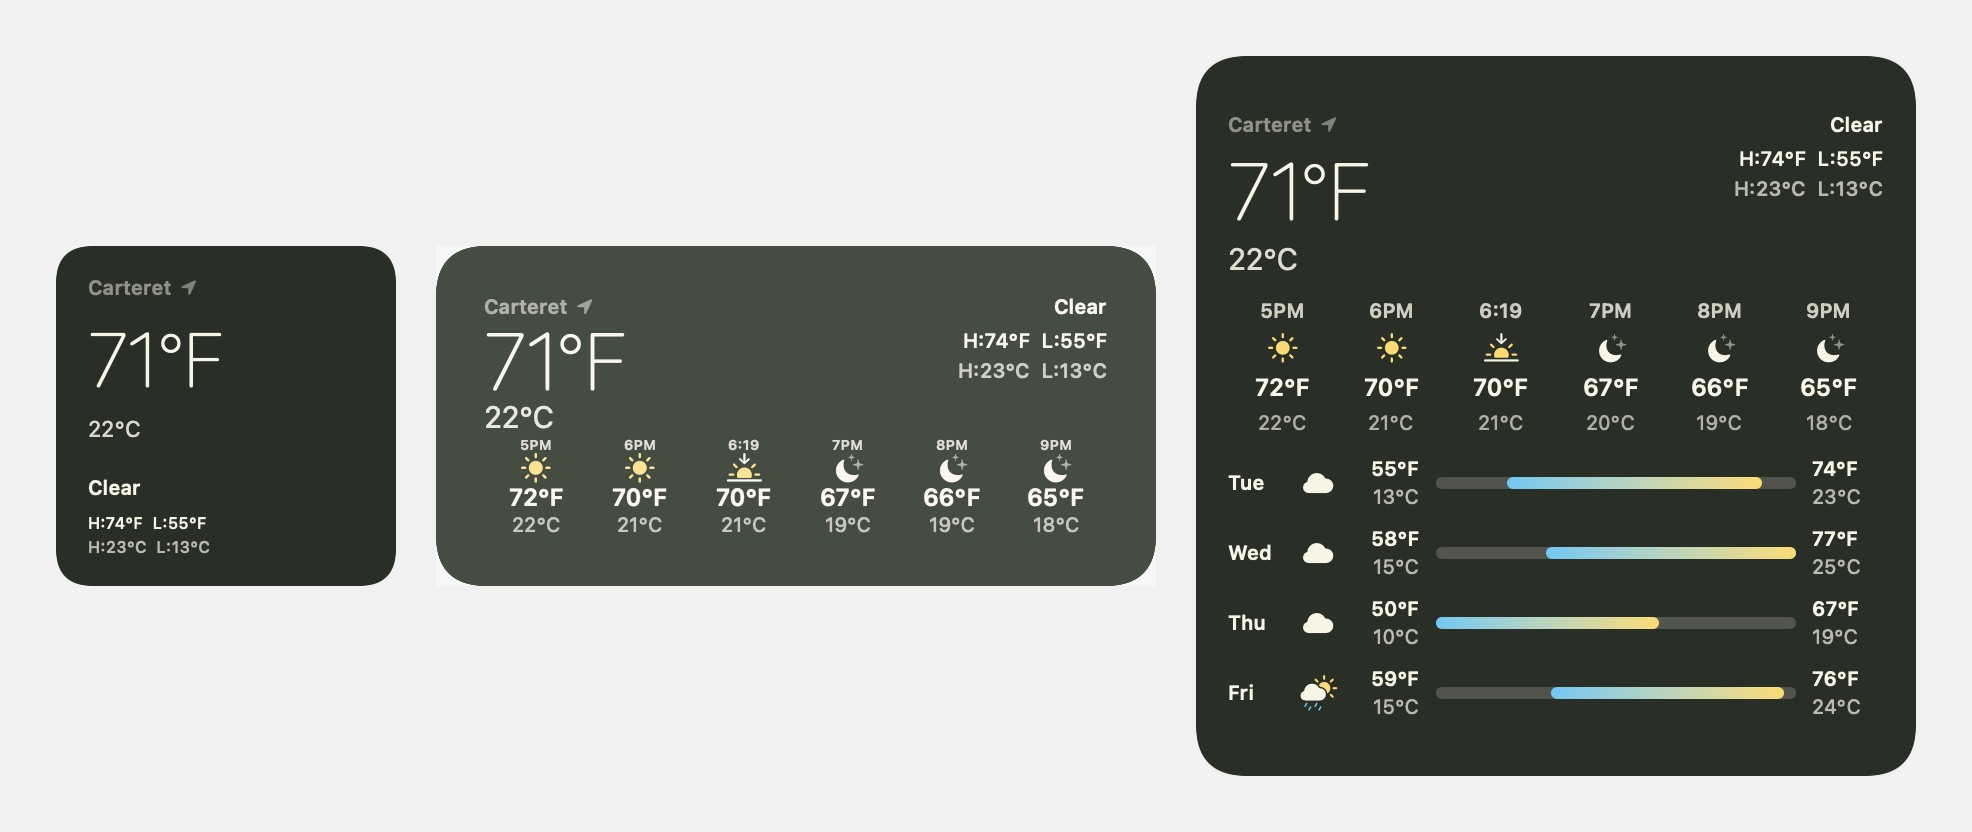
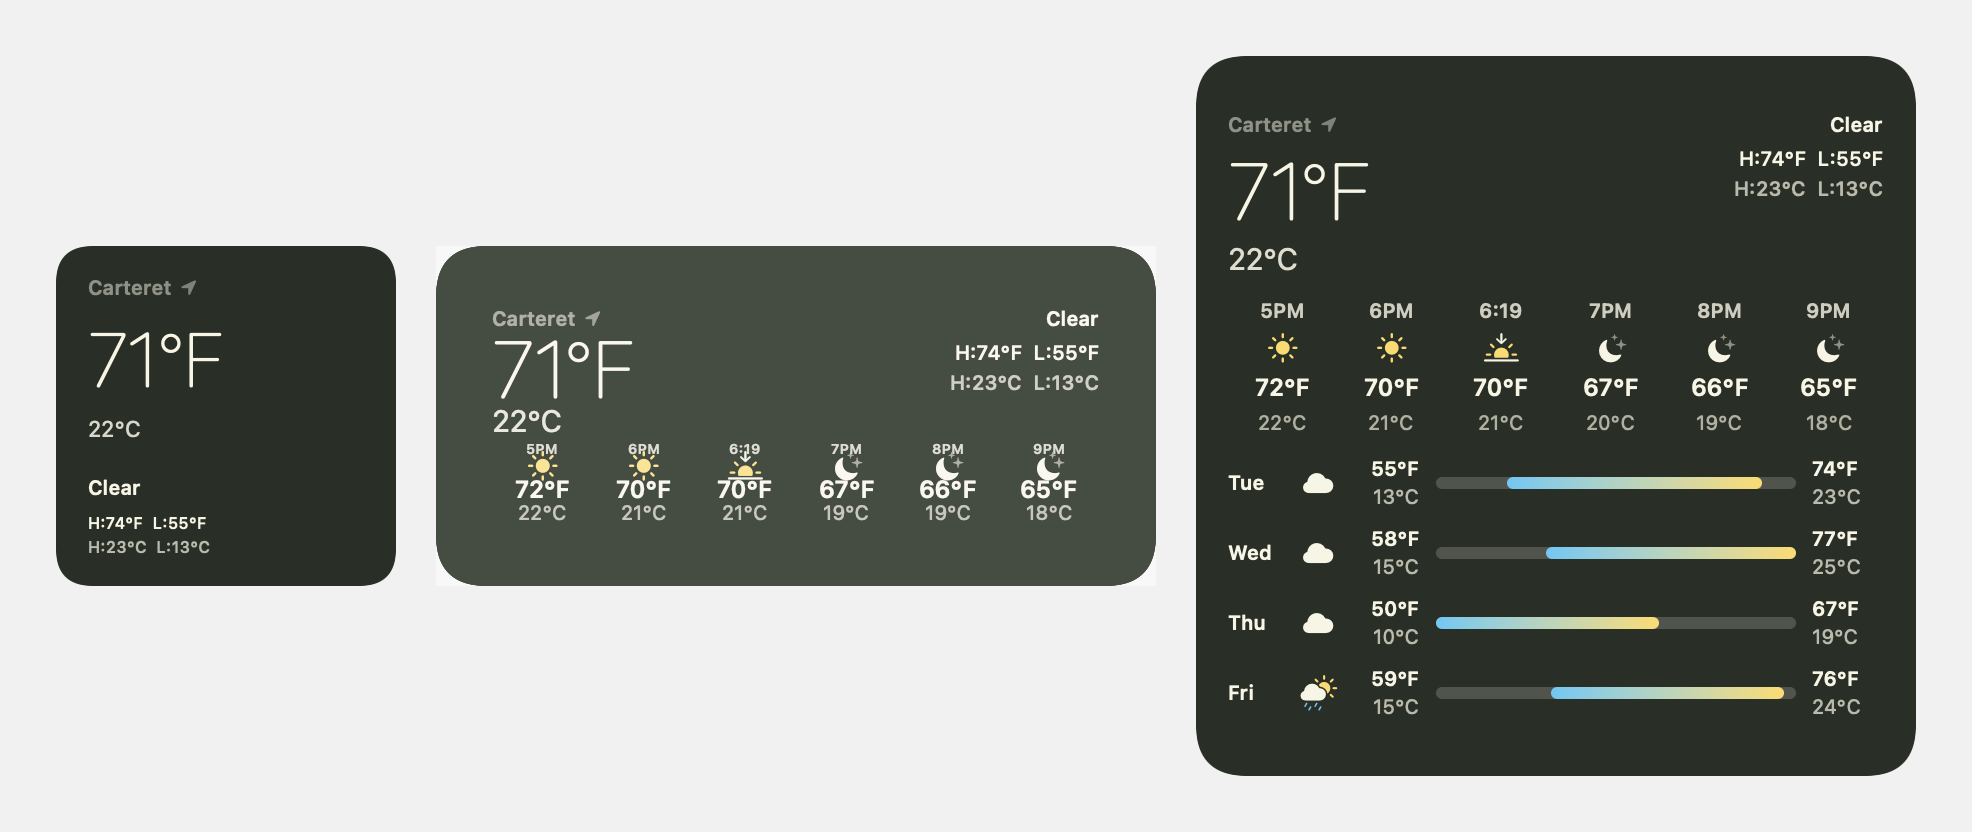
Make the medium widget inset larger than the small and large cards.

Changed region(s): [[0.2475, 0.3438, 0.5568, 0.6562], [0.464, 0.3438, 0.5568, 0.4688]]

diff --git a/Sources/Shared/WeatherCard.swift b/Sources/Shared/WeatherCard.swift
@@ -63,7 +63,7 @@ struct WeatherCard: View {
 
     private var header: some View {
         HStack(alignment: .top, spacing: 12) {
-            VStack(alignment: .leading, spacing: isCompactMedium ? -4 : (compact ? 2 : 4)) {
+            VStack(alignment: .leading, spacing: isCompactMedium ? -6 : (compact ? 2 : 4)) {
                 placeRow
                 Text("\(WeatherSnapshot.format(snapshot.fahrenheit))°F")
                     .font(.system(size: compact ? 40 : 60, weight: .thin, design: .rounded))
@@ -117,14 +117,14 @@ struct WeatherCard: View {
         let dense = isCompactMedium
         return HStack(alignment: .top, spacing: 0) {
             ForEach(snapshot.hourly.prefix(maxItems)) { hour in
-                VStack(spacing: dense ? 0 : (compact ? 4 : 6)) {
+                VStack(spacing: dense ? -2 : (compact ? 4 : 6)) {
                     Text(hour.label)
                         .font(.system(size: compact ? 10 : 13, weight: .semibold))
                         .opacity(0.8)
                         .lineLimit(1)
                         .minimumScaleFactor(0.7)
                     conditionIcon(icon(for: hour), pointSize: compact ? 14 : 18)
-                        .frame(height: dense ? 14 : (compact ? 16 : 22))
+                        .frame(height: dense ? 12 : (compact ? 16 : 22))
                     Text("\(WeatherSnapshot.format(hour.fahrenheit))°F")
                         .font(.system(size: compact ? 12 : 16, weight: .semibold))
                     Text("\(WeatherSnapshot.format(hour.celsius))°C")

diff --git a/Sources/Widget/WeatherCFWidget.swift b/Sources/Widget/WeatherCFWidget.swift
@@ -125,7 +125,7 @@ struct WeatherWidgetView: View {
     /// needs a larger inset or it sits closer to the rim than the other sizes.
     private var contentPadding: EdgeInsets {
         if family == .systemMedium {
-            return EdgeInsets(top: 26, leading: 24, bottom: 26, trailing: 24)
+            return EdgeInsets(top: 36, leading: 28, bottom: 36, trailing: 28)
         }
         return EdgeInsets(top: 16, leading: 16, bottom: 16, trailing: 16)
     }
